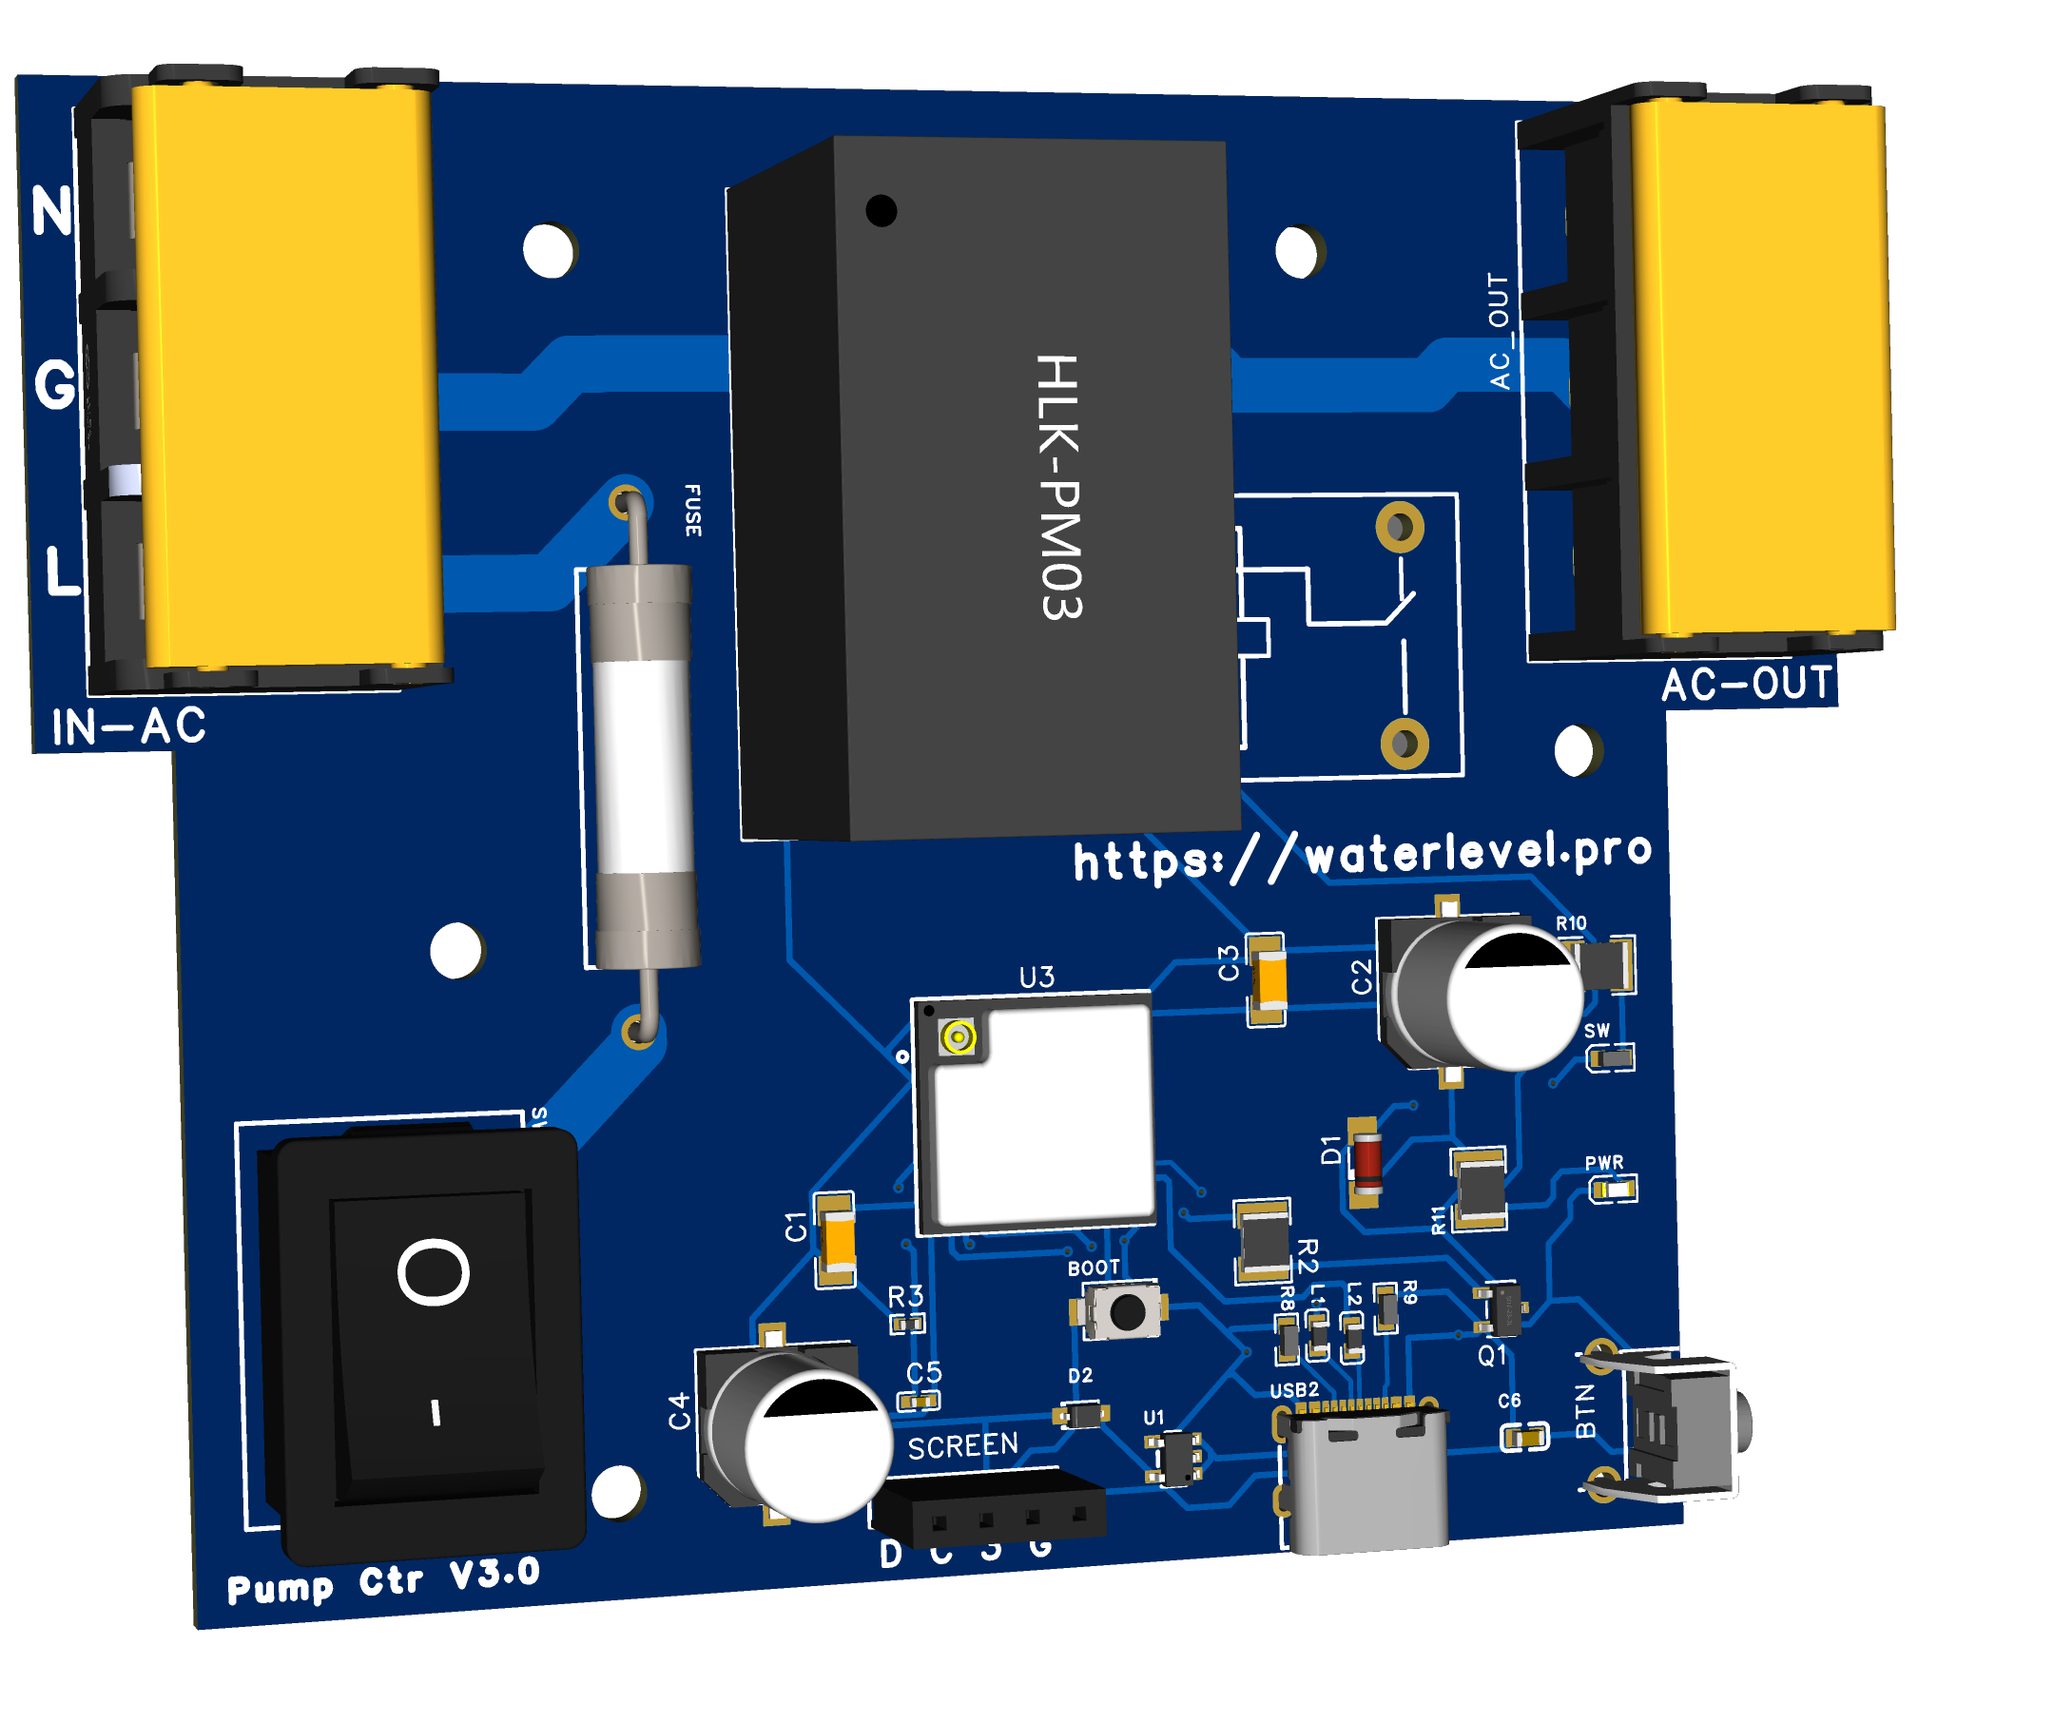
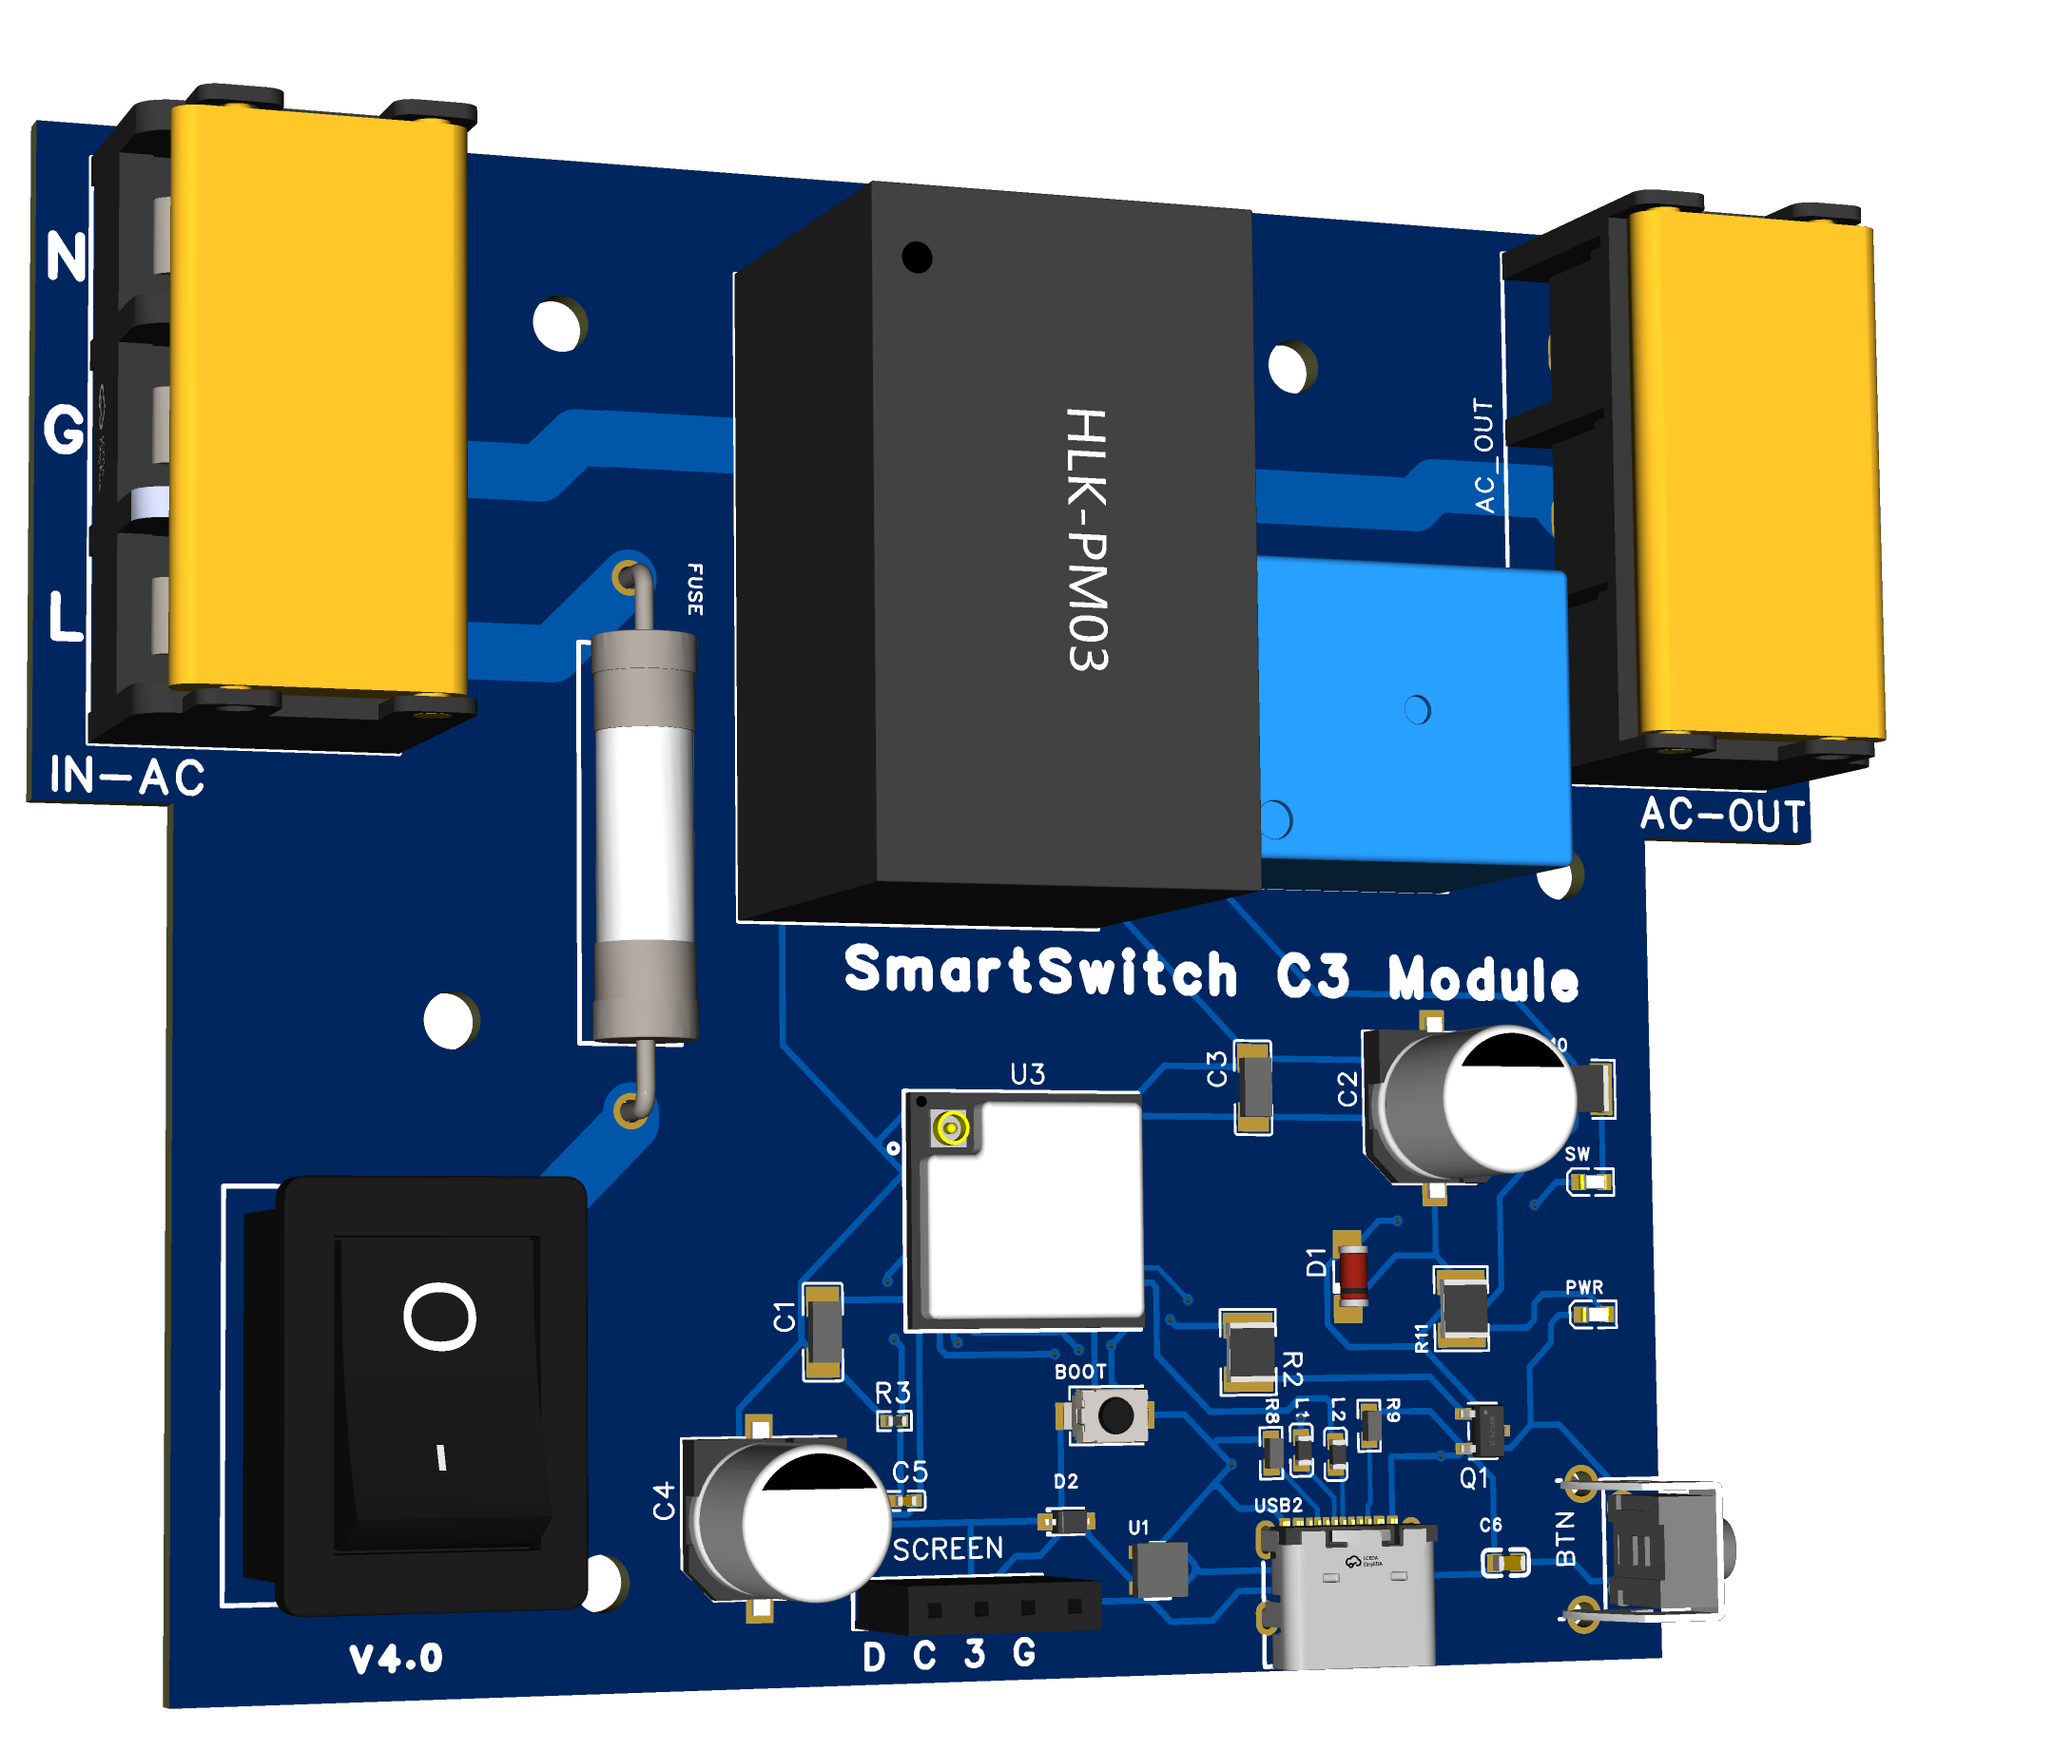
SmartSwitch C3 Module

diff --git a/README.md b/README.md
@@ -31,7 +31,7 @@ under the GPLv3 license, allowing for free use and modification.
 
 ## Hardware part at OSHWLab
 
-[WiFi Smart Water Pump Controller S1](https://oshwlab.com/rrguardo83/automatic-water-pump-for-s1)
+[SmartSwitch C3 Module](https://oshwlab.com/rrguardo83/automatic-water-pump-for-s1)
 
 ![PCB](images/C1_PCB.png)
 
